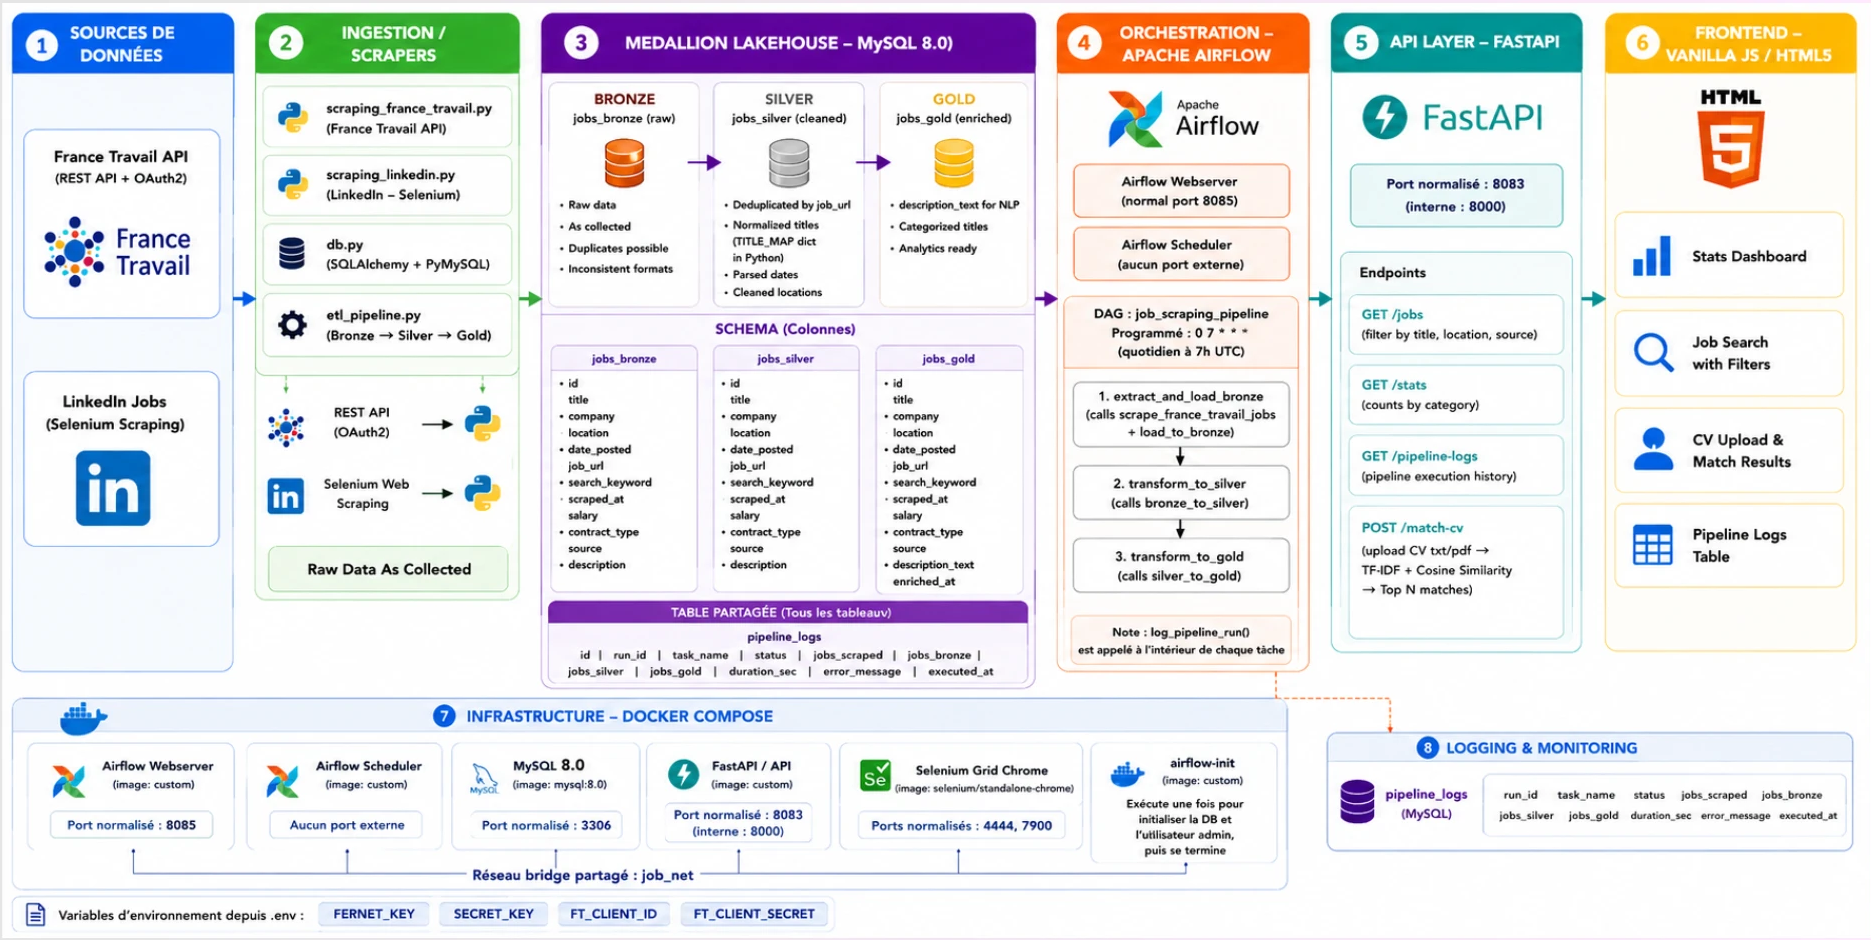
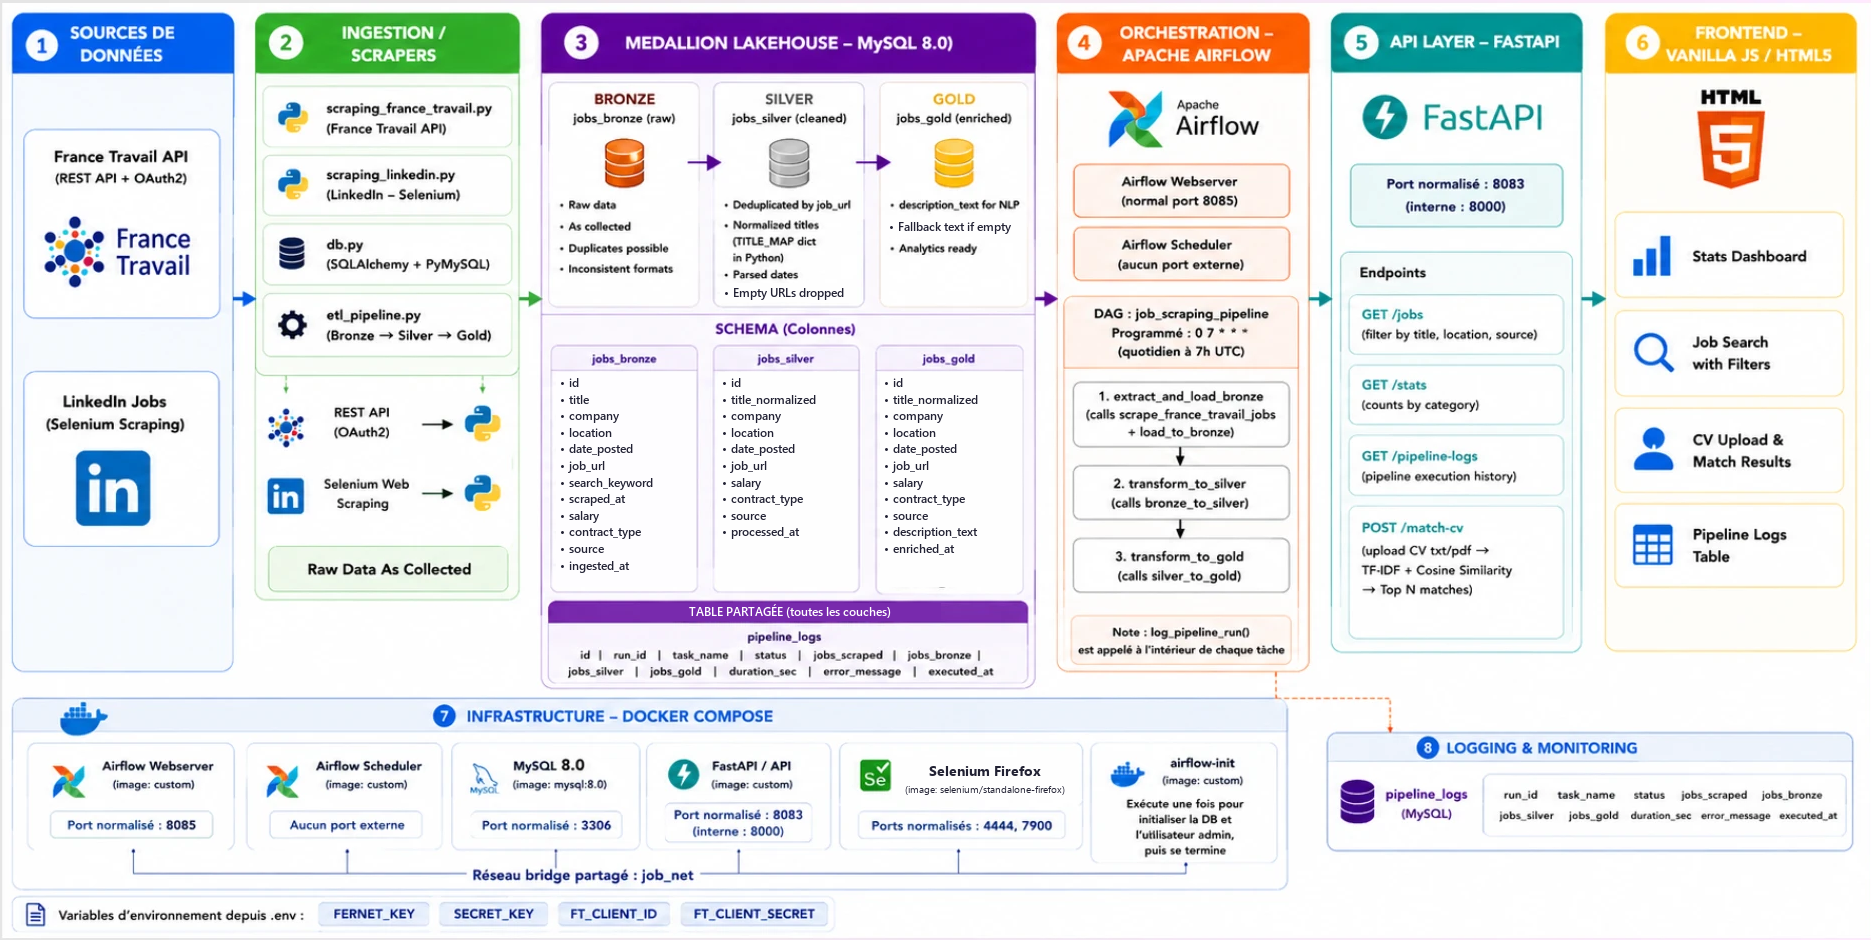
docs: align architecture diagram and README with the code

diff --git a/README.md b/README.md
@@ -46,8 +46,8 @@ HireFlow collecte chaque jour des offres d'emploi Tech depuis **France Travail**
 | Couche | Rôle |
 |---|---|
 | **Bronze** | Données brutes, telles que collectées |
-| **Silver** | Dédoublonnage sur `job_url`, normalisation des intitulés, parsing des dates, nettoyage des localisations |
-| **Gold** | Titres catégorisés et texte de description prêt pour le NLP et la BI |
+| **Silver** | Suppression des offres sans URL, dédoublonnage sur `job_url`, normalisation des intitulés (`TITLE_MAP`), parsing des dates |
+| **Gold** | `description_text` prêt pour le NLP (repli sur intitulé + lieu + contrat si la description est vide), données prêtes pour la BI |
 
 Chaque tâche écrit dans une table `pipeline_logs` : statut, volumes par couche, durée et erreurs.
 
